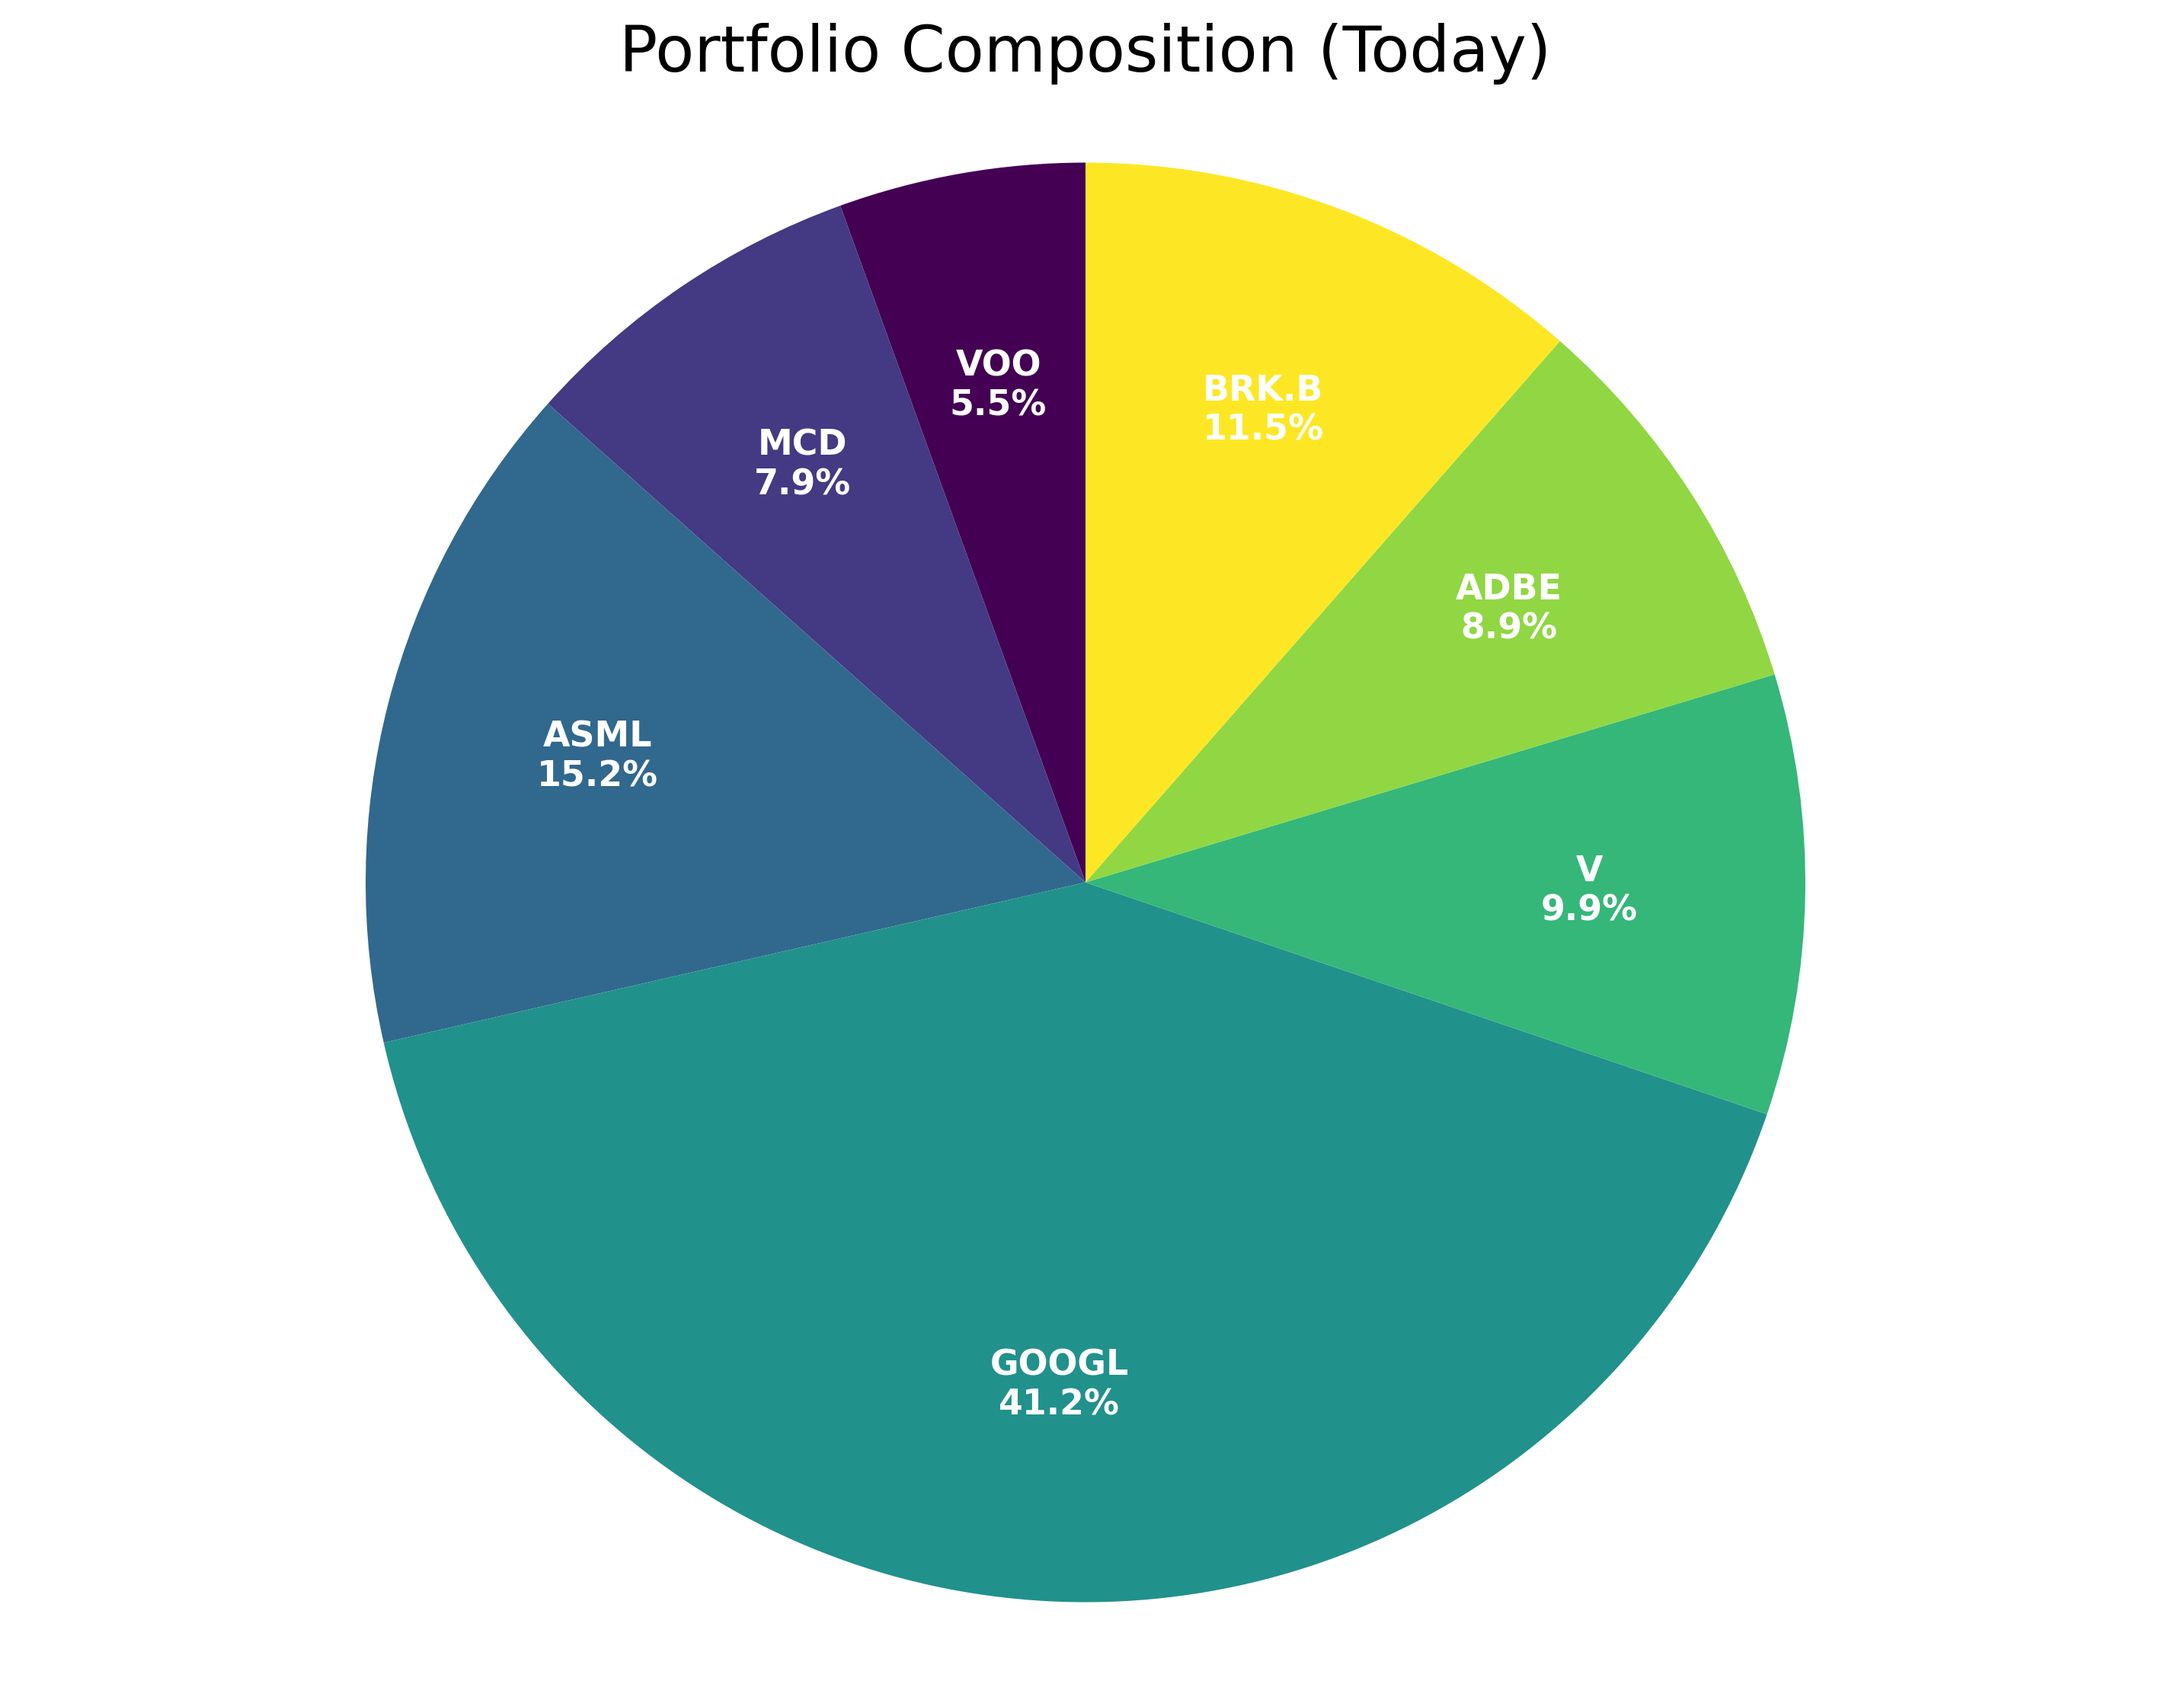
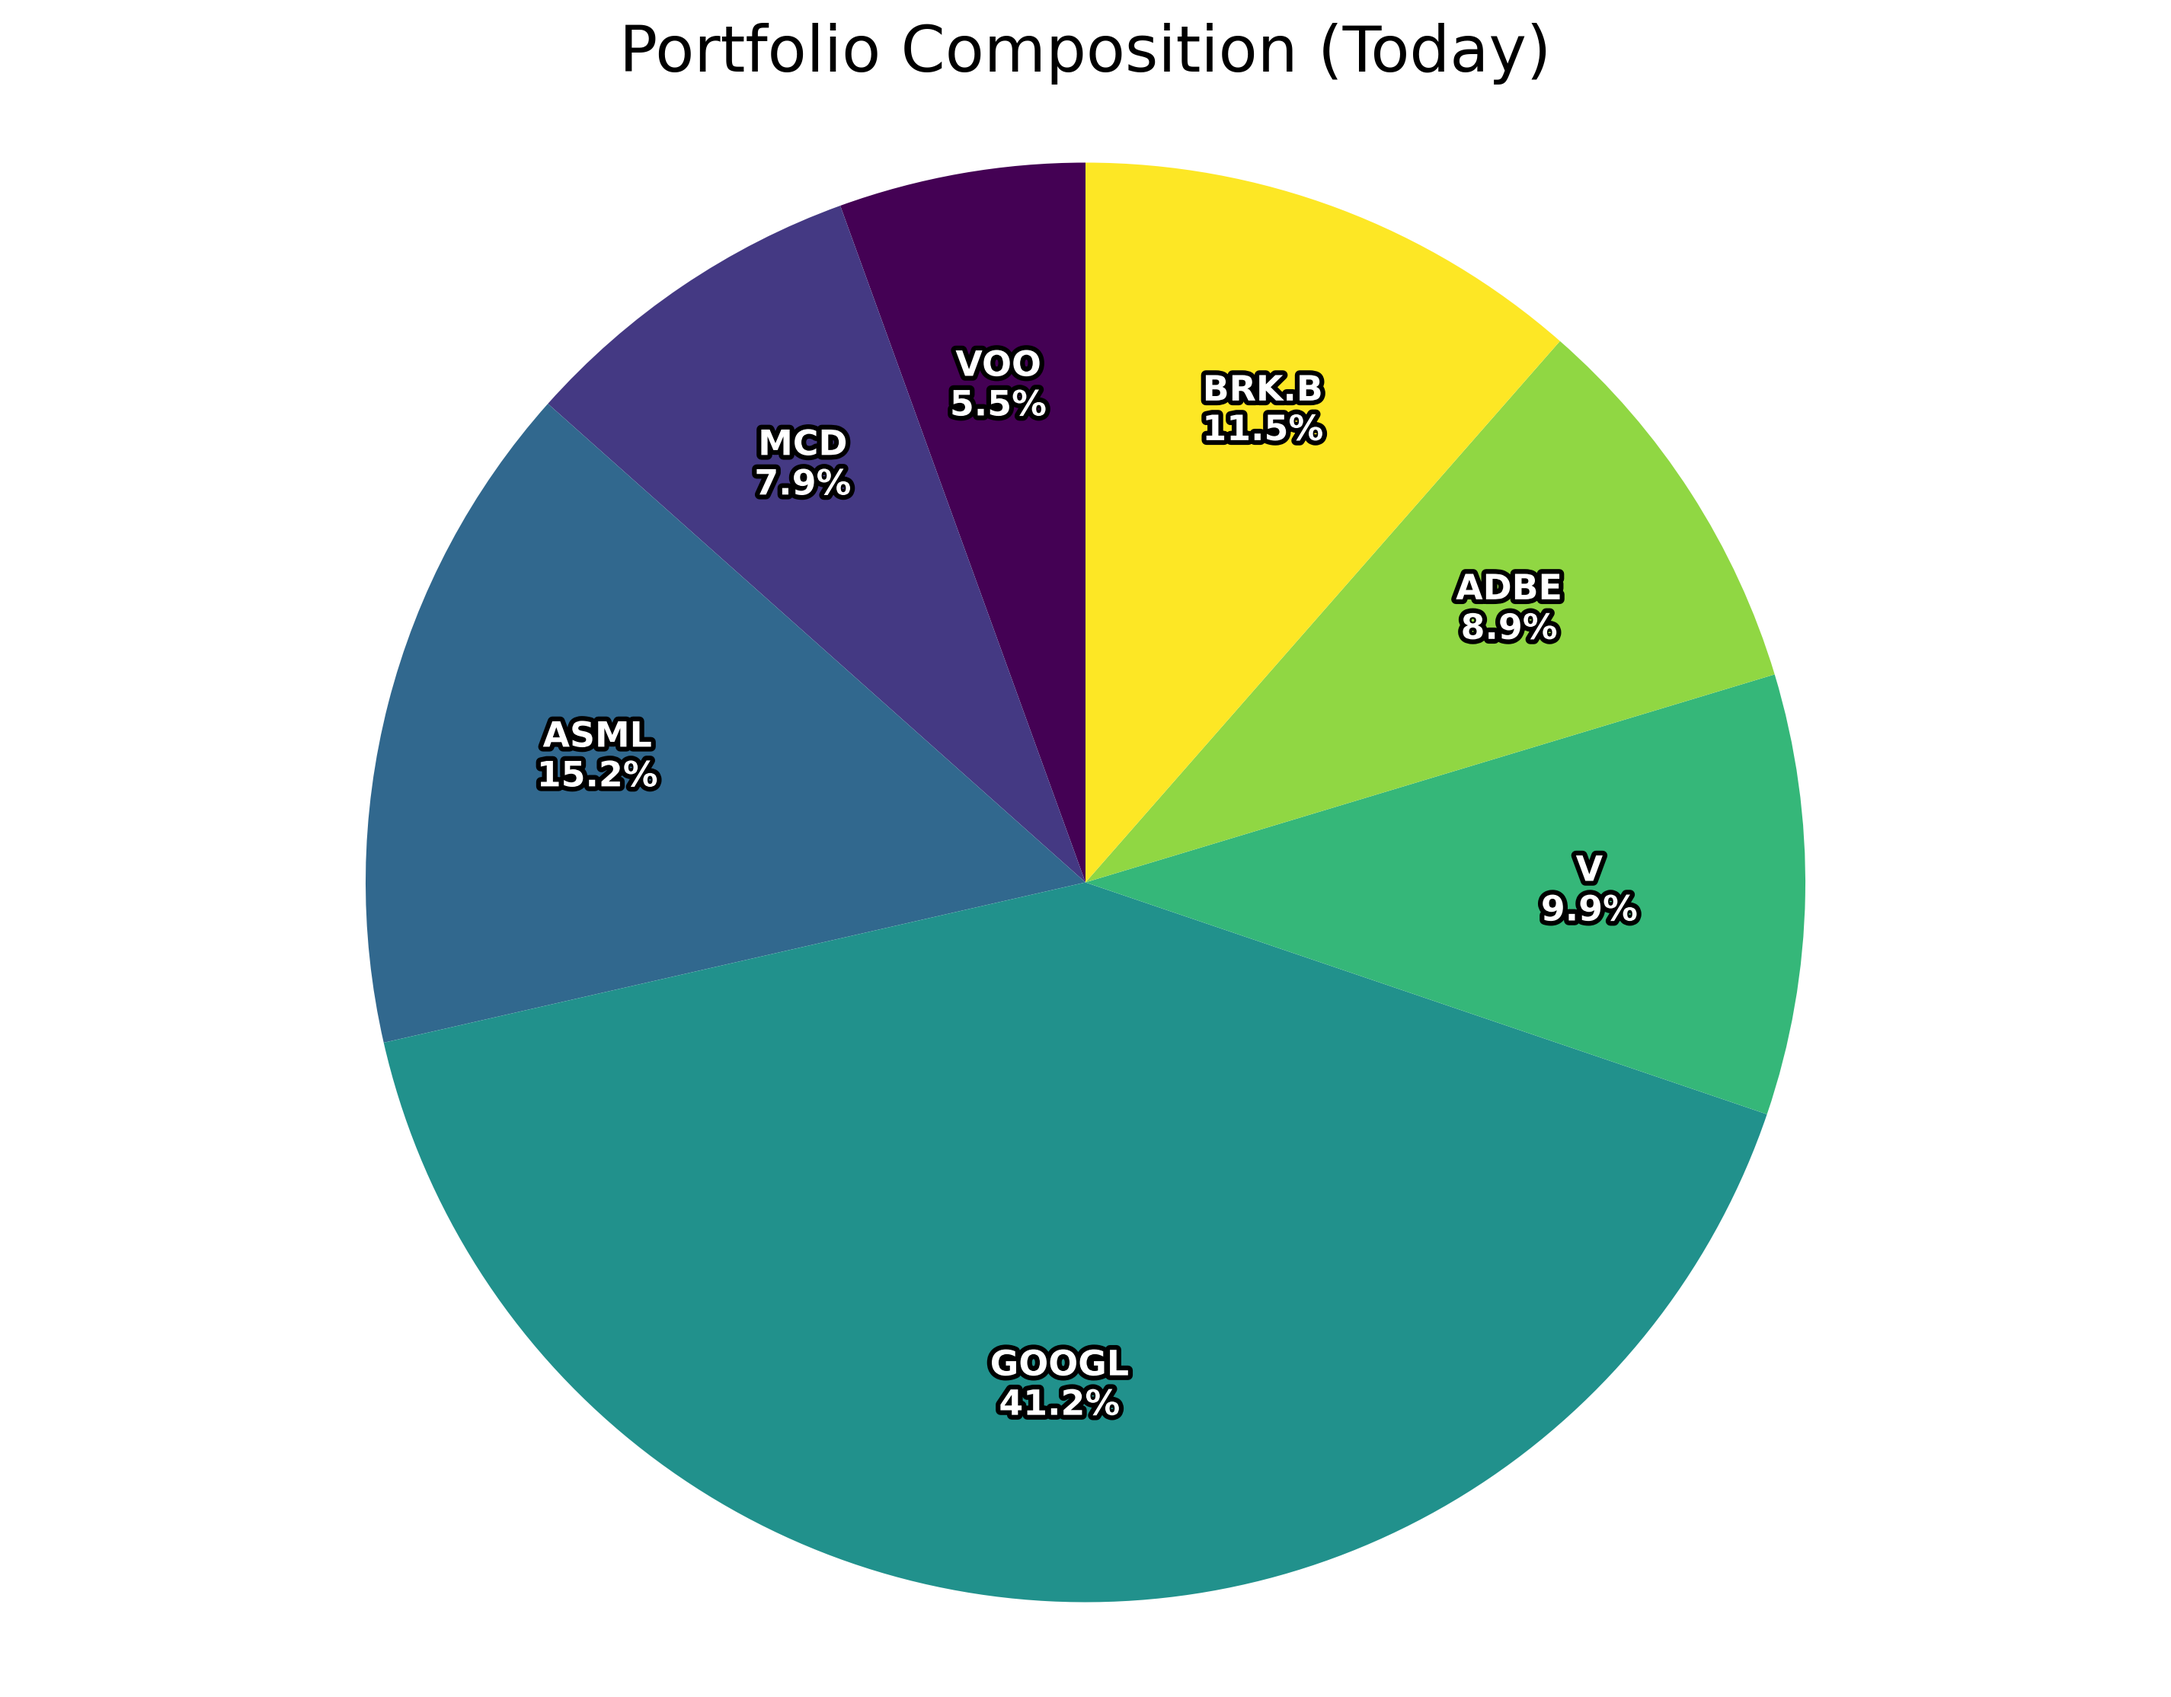
ticker effect added

diff --git a/main.py b/main.py
@@ -7,7 +7,8 @@ import matplotlib.pyplot as plt
 import matplotlib.ticker as mticker
 import configparser
 import sys
-import numpy as np  # <--- 新增导入 numpy 用于数学计算
+import numpy as np
+import matplotlib.patheffects as path_effects
 
 
 # ==============================================================================
@@ -184,11 +185,12 @@ def save_history(date_to_save: str, value_to_save: float, stock_values: dict):
 
 
 # ==============================================================================
-# 5. 绘制历史价值图表 (已更新)
+# 5. 绘制历史价值图表 (最终版)
 # ==============================================================================
 def plot_history_graph(output_filename: str):
     """
-    读取历史数据文件，绘制堆叠面积图，并将标签直接写在区域内。
+    读取历史数据文件，绘制堆叠面积图。
+    标签会统一使用带黑色描边的白色文字，并标注在每个持仓的建仓日（最左侧）。
     """
     if not os.path.exists(HISTORY_FILE):
         print("找不到历史数据文件，无法绘制图表。")
@@ -203,31 +205,40 @@ def plot_history_graph(output_filename: str):
 
     fig, ax = plt.subplots(figsize=(16, 9))
 
-    # --- 核心修改: 绘制堆叠图，但不生成图例 ---
-    ax.stackplot(df.index, [df[col] for col in stock_columns], alpha=0.8)
+    # --- 1. 绘制堆叠面积图 ---
+    ax.stackplot(df.index, [df[col] for col in stock_columns], alpha=0.8, labels=stock_columns)
 
-    # 绘制总价值曲线
+    # --- 2. 绘制总价值曲线 ---
     ax.plot(df.index, df['total_value'], color='black', linewidth=2, linestyle='--', label='Total Value')
 
-    # --- 核心修改: 在每个颜色区域内添加文字标签 ---
-    y_bottom = np.zeros(len(df.index))
-    mid_point_idx = len(df.index) // 2
-    total_value_at_midpoint = df['total_value'].iloc[mid_point_idx]
+    # --- 3. 核心修改: 在每个区域的建仓日（最左侧）添加带描边的标签 ---
+    # 预先计算出每日每个区域的“底部”Y坐标，这比在循环中计算更高效
+    y_bottom_df = df[stock_columns].cumsum(axis=1).shift(1, axis=1).fillna(0)
 
     for col in stock_columns:
-        y_values = df[col].values
-        # 计算标签的垂直位置：在该区域垂直方向的中间
-        y_label_pos = y_bottom[mid_point_idx] + y_values[mid_point_idx] / 2
-        x_label_pos = df.index[mid_point_idx]
+        # 找到该股票第一次出现（价值>0）的日期
+        first_holding_mask = df[col] > 0
+        if not first_holding_mask.any():
+            continue  # 如果该股票从未被持有，则跳过
 
-        # 为了避免标签重叠，只为占比超过3%的区域添加标签
-        if y_values[mid_point_idx] > total_value_at_midpoint * 0.03:
-            ax.text(x_label_pos, y_label_pos, col,
-                    ha='center', va='center', color='white',
-                    fontsize=12, fontweight='bold')
+        first_holding_day = first_holding_mask.idxmax()
 
-        # 更新下一次堆叠的基线
-        y_bottom += y_values
+        # 获取建仓日当天的股票价值和其下方的基线价值
+        stock_value_on_day = df.loc[first_holding_day, col]
+        y_bottom_on_day = y_bottom_df.loc[first_holding_day, col]
+
+        # 计算标签的Y坐标：位于该区域当日的垂直中心
+        label_y_pos = y_bottom_on_day + stock_value_on_day / 2.0
+
+        # 在图表上添加文字标签
+        ax.text(first_holding_day, label_y_pos, " " + col,  # 在文字前加空格作为内边距
+                ha='left',  # 水平左对齐
+                va='center',  # 垂直居中
+                color='white',  # 文字颜色为白色
+                fontsize=11,
+                fontweight='bold',
+                # 添加描边效果：3个像素宽的黑色描边
+                path_effects=[path_effects.withStroke(linewidth=3, foreground='black')])
 
     ax.set_title('Portfolio Value Over Time', fontsize=20)
     ax.set_ylabel('Value ($)', fontsize=14)
@@ -235,6 +246,10 @@ def plot_history_graph(output_filename: str):
     ax.grid(True, linestyle='--', alpha=0.5)
     formatter = mticker.FormatStrFormatter('$%1.0f')
     ax.yaxis.set_major_formatter(formatter)
+
+    # 精确设置X轴范围，使其从第一个日期开始，到最后一个日期结束
+    ax.set_xlim(df.index[0], df.index[-1])
+
     plt.xticks(rotation=45)
     plt.tight_layout()
 
@@ -248,11 +263,12 @@ def plot_history_graph(output_filename: str):
 
 
 # ==============================================================================
-# 6. 新增: 绘制当日仓位饼图
+# 6. 新增: 绘制当日仓位饼图 (已更新描边效果)
 # ==============================================================================
 def plot_pie_chart(stock_values: dict, total_value: float, output_filename: str):
     """
     根据当日的各项股票价值，绘制仓位占比饼图。
+    所有文字（股票代码和百分比）都会被设置为带黑色描边的白色字体。
     """
     print(f"正在生成当日仓位饼图...")
 
@@ -267,7 +283,7 @@ def plot_pie_chart(stock_values: dict, total_value: float, output_filename: str)
 
     fig, ax = plt.subplots(figsize=(12, 9))
 
-    # --- 核心实现: 绘制饼图，并在扇区内添加 Ticker 和百分比 ---
+    # --- 核心实现: 绘制饼图，并在扇区内添加带描边的 Ticker 和百分比 ---
 
     # 1. 先只画出饼图的基本结构
     wedges, _ = ax.pie(sizes, startangle=90, colors=plt.cm.viridis(np.linspace(0, 1, len(sizes))))
@@ -287,12 +303,14 @@ def plot_pie_chart(stock_values: dict, total_value: float, output_filename: str)
         percentage = (sizes[i] / total_value) * 100
         label_text = f"{ticker}\n{percentage:.1f}%"
 
-        # 在计算出的位置上添加文字
+        # 在计算出的位置上添加文字，并加入描边效果
         ax.text(x, y, label_text,
                 ha='center', va='center',  # 水平和垂直居中
-                color='white',  # 文字颜色
-                fontweight='bold',  # 字体加粗
-                fontsize=11)  # 字体大小
+                color='white',             # 文字颜色
+                fontweight='bold',         # 字体加粗
+                fontsize=11,               # 字体大小
+                # --- 核心改动: 添加描边效果 ---
+                path_effects=[path_effects.withStroke(linewidth=3, foreground='black')])
 
     ax.set_title('Portfolio Composition (Today)', fontsize=20)
     ax.axis('equal')  # 保证饼图是正圆形
